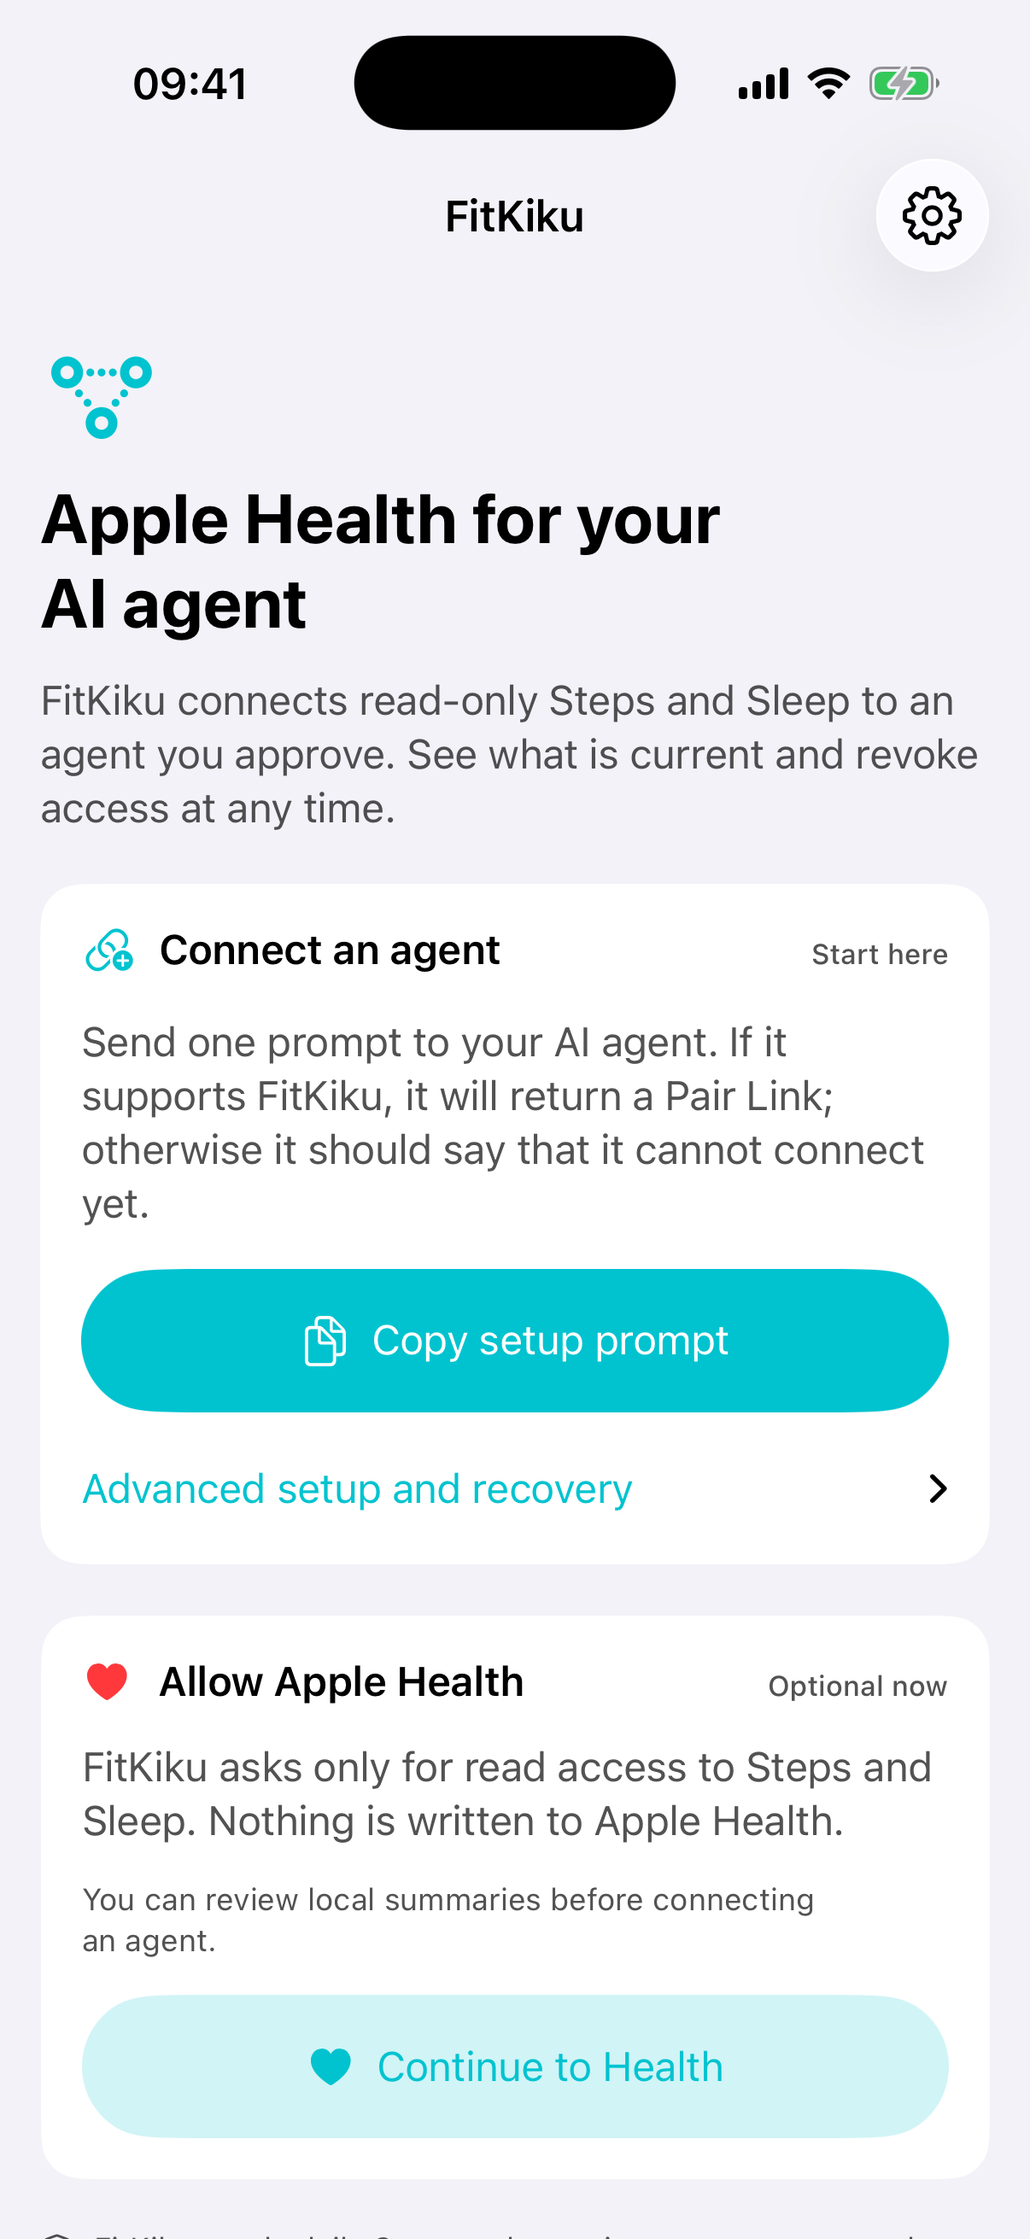
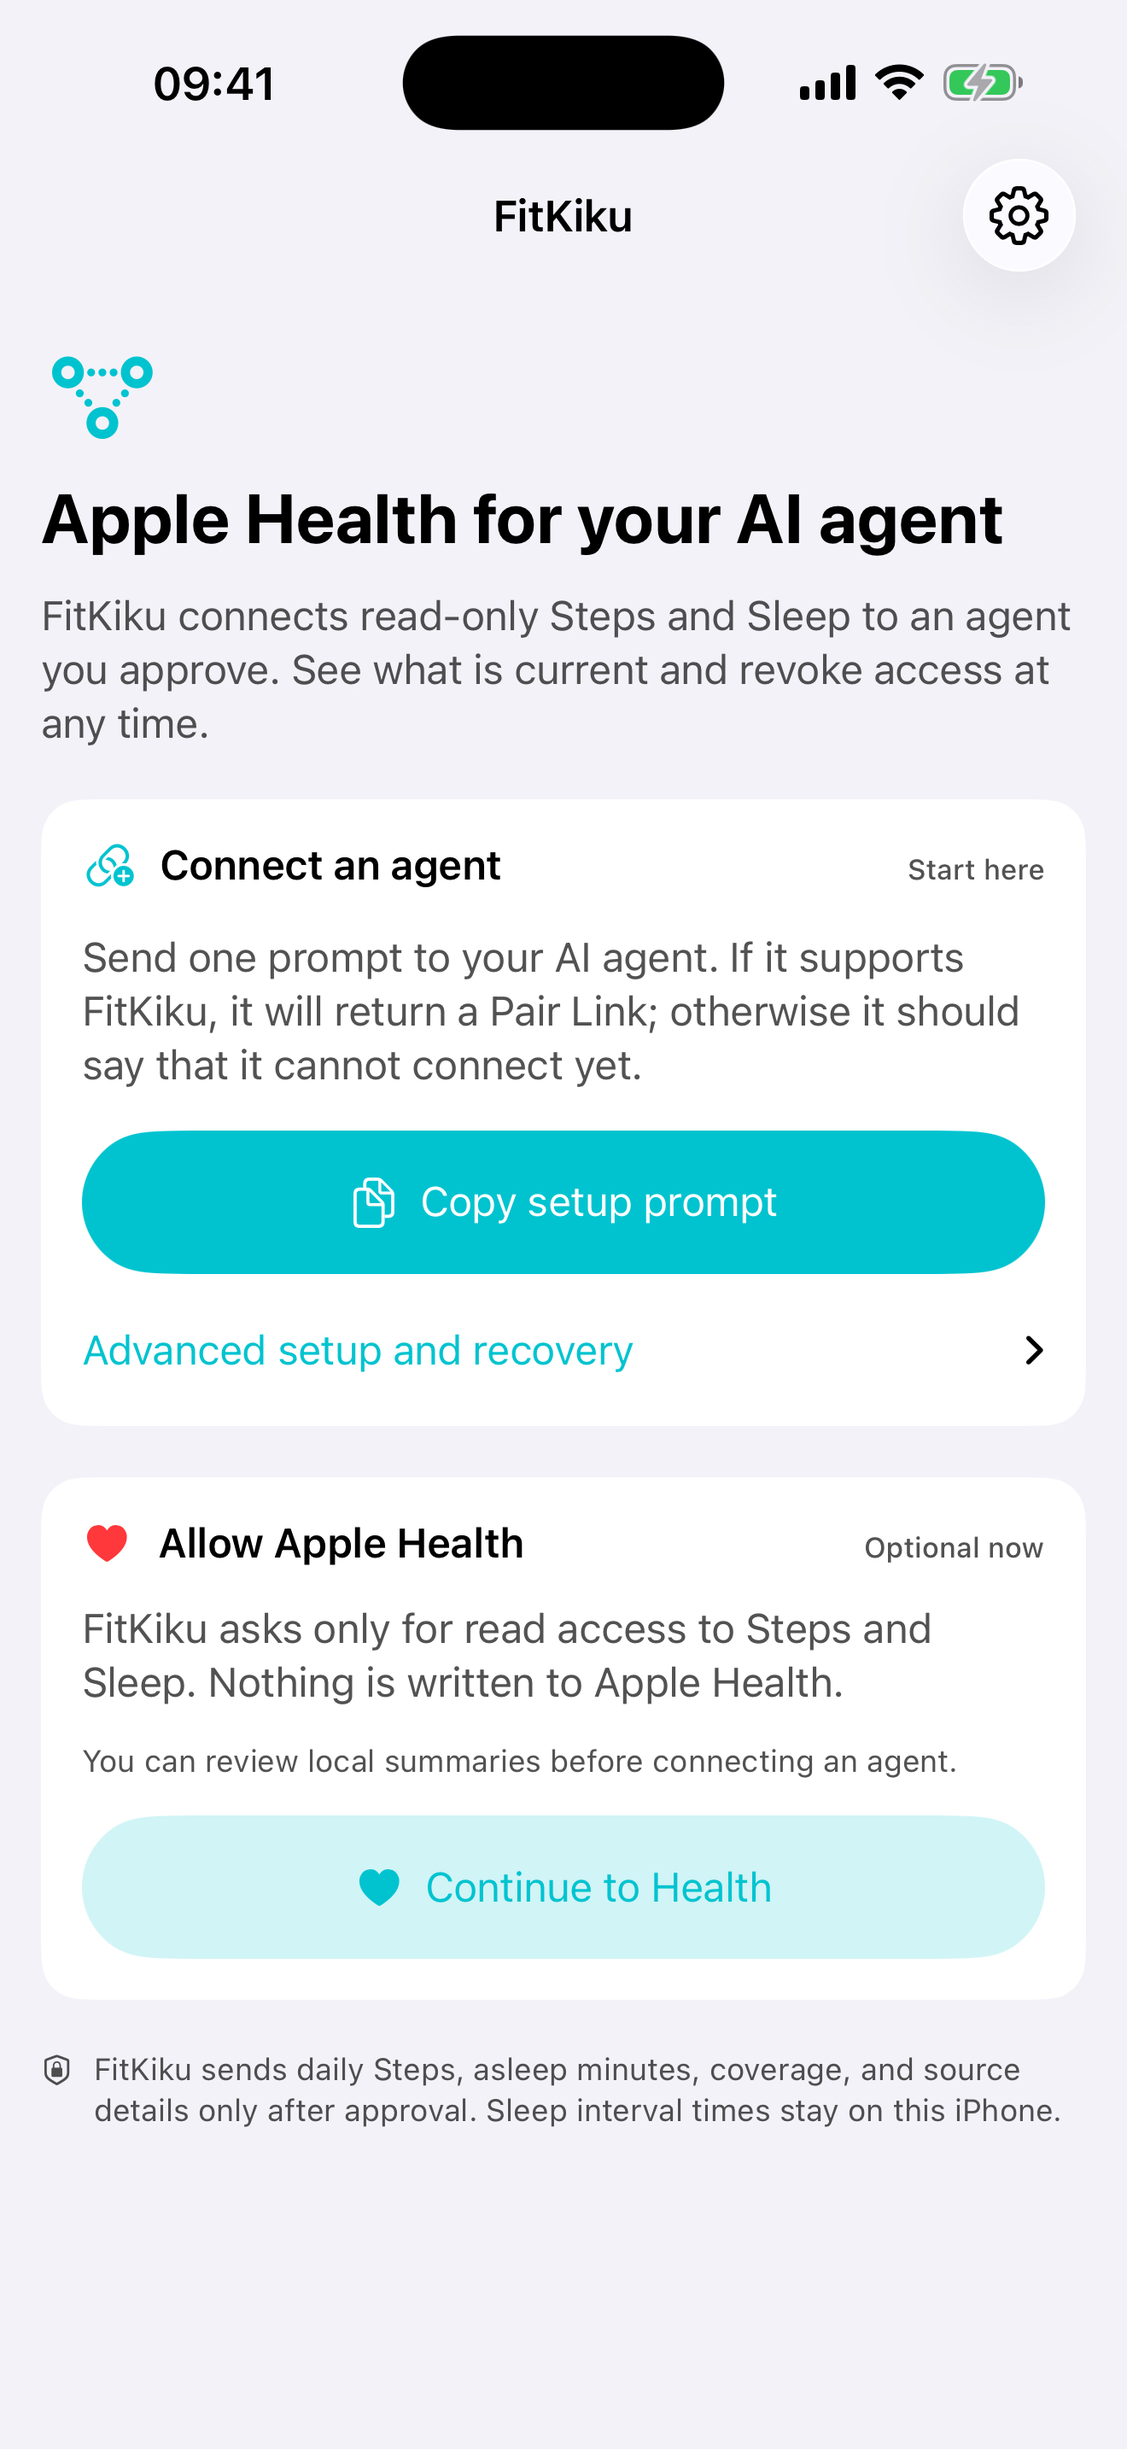
Prepare FitKiku App Store release package (#8)

diff --git a/ios/FitKiku/FitKikuTests/APIClientTests.swift b/ios/FitKiku/FitKikuTests/APIClientTests.swift
@@ -294,6 +294,8 @@ final class APIClientTests: XCTestCase {
         XCTAssertEqual(preview.serverOrigin, "https://fitkiku.example")
         XCTAssertEqual(preview.scopes, [.steps, .sleep])
         XCTAssertEqual(preview.expiresAt, "2099-08-02T12:00:00Z")
+        XCTAssertNotEqual(preview.formattedExpiresAt, preview.expiresAt)
+        XCTAssertFalse(preview.formattedExpiresAt.contains("T12:00:00Z"))
     }
 
     func testAgentPreviewMapsMalformedJSONToInvalidResponse() async throws {
@@ -948,6 +950,12 @@ final class APIClientTests: XCTestCase {
         let firstRun = AppModel.syntheticDemo(.firstRun)
         let consent = AppModel.syntheticDemo(.consent)
         let revoked = AppModel.syntheticDemo(.revoked)
+
+        XCTAssertEqual(
+            consent.pendingAgentConsent?.preview.retentionDisclosure,
+            "Daily summaries are retained until deletion is requested. "
+                + "Revoking stops future access but does not delete stored summaries."
+        )
         let expired = AppModel.syntheticDemo(.expired)
         let healthEmpty = AppModel.syntheticDemo(.healthEmpty)
 

diff --git a/ios/FitKiku/FitKiku/AppModel.swift b/ios/FitKiku/FitKiku/AppModel.swift
@@ -585,8 +585,10 @@ extension AppModel {
                     assertedAgentName: "Kiku Assistant",
                     serverOrigin: "https://health.example",
                     scopes: [.steps, .sleep],
-                    expiresAt: "2099-08-08T21:00:00Z",
-                    retentionDisclosure: "Daily summaries are retained until you revoke access.",
+                    expiresAt: "2026-04-08T18:00:00Z",
+                    retentionDisclosure:
+                        "Daily summaries are retained until deletion is requested. "
+                        + "Revoking stops future access but does not delete stored summaries.",
                     aiProcessingDisclosure: "Your approved agent may send these summaries to its configured AI provider."
                 )
             )

diff --git a/ios/FitKiku/FitKiku/ContentView.swift b/ios/FitKiku/FitKiku/ContentView.swift
@@ -235,7 +235,7 @@ struct ContentView: View {
             Text(NativeHealthDisclosure.outbound)
                 .font(.footnote)
                 .foregroundStyle(Color.fitKikuSecondaryText)
-            detailRow("Request expires", value: consent.preview.expiresAt)
+            detailRow("Request expires", value: consent.preview.formattedExpiresAt)
             disclosure(title: "Retention", body: consent.preview.retentionDisclosure)
             disclosure(title: "AI processing", body: consent.preview.aiProcessingDisclosure)
             Text("Apple Health permission is a separate next step.")

diff --git a/ios/FitKiku/FitKiku/APIClient.swift b/ios/FitKiku/FitKiku/APIClient.swift
@@ -101,6 +101,11 @@ struct AgentGrantPreview: Codable, Equatable, Sendable {
     let expiresAt: String
     let retentionDisclosure: String
     let aiProcessingDisclosure: String
+
+    var formattedExpiresAt: String {
+        guard let date = AppDate.parseTimestamp(expiresAt) else { return expiresAt }
+        return date.formatted(date: .abbreviated, time: .shortened)
+    }
 }
 
 struct AgentPairRequest: Codable, Equatable, Sendable {

diff --git a/docs/APP_STORE_RELEASE_CHECKLIST.md b/docs/APP_STORE_RELEASE_CHECKLIST.md
@@ -10,6 +10,8 @@
 - **Bundle ID:** `com.kikuai.fitkiku.health`
 - **Minimum iOS:** 17.0
 - **Current version/build:** 1.0 (1)
+- **Required upload SDK:** iOS 26 SDK or later from April 28, 2026
+- **Current local toolchain:** Xcode 26.6 / iOS SDK 26.5, verified 2026-08-11
 
 ## Hard release gates
 
@@ -17,14 +19,9 @@
 - [ ] The submission identity is resolved with Apple: FitKiku is a non-medical
       Health & Fitness utility, but Guideline 5.1.1(ix) says apps requiring
       sensitive user information should be submitted by the legal entity
-      providing the service. A close competitor is currently listed under an
-      individual seller, which lowers but does not remove review risk.
+      providing the service. FitKiku currently has no legal-entity submission
+      identity, so review acceptance under an individual seller is unproven.
 - [ ] App Store Connect app record exists and the Bundle ID matches the build.
-- [ ] The paid-program App ID, provisioning profile, and final binary include
-      Associated Domains, and
-      `https://kikuai.dev/.well-known/apple-app-site-association` serves the
-      exact production app identifier over HTTPS without redirects. Personal
-      Team cannot prove this capability.
 - [ ] A production HTTPS backend supports the intended public user boundary.
 - [ ] App Review can exercise the complete flow through an active demo account,
       fully featured demo mode, or reviewer-only sample Pair Link and backend.
@@ -35,9 +32,18 @@
 - [ ] The final archive is uploaded and processed without unresolved warnings.
 - [ ] Owner explicitly approves submission.
 
+Associated Domains and an Apple App Site Association file are not 1.0 release
+gates. The current Pair Link contract intentionally uses the registered
+`fitkiku-health://` custom URL scheme. Universal Links remain a post-1.0
+hardening option after a paid App ID exists; do not advertise them before they
+are implemented and tested in the signed binary.
+
 ## Product-page draft
 
 These are working drafts, not published metadata.
+
+The paste-ready English metadata and review-note template live in
+[`docs/app-store/metadata/en-US.md`](app-store/metadata/en-US.md).
 
 - **Name:** FitKiku
 - **Subtitle:** Apple Health for your AI
@@ -100,8 +106,9 @@ and reshape the business decision before changing the binary.
 
 - [x] Privacy Policy URL — <https://kikuai.dev/fitkiku/privacy/>.
 - [x] Support URL — <https://kikuai.dev/fitkiku/support/>.
-- [ ] Optional privacy choices/deletion URL — decide from the final hosted data
-      control path.
+- [x] Privacy choices/deletion URL — <https://kikuai.dev/fitkiku/support/>;
+      it explains the separate deletion request and opens a pre-addressed
+      support email without collecting health data in a web form.
 - [ ] App Review contact name, phone, and email — owner-provided in App Store
       Connect, never committed here.
 
@@ -109,10 +116,14 @@ Do not publish placeholder or empty pages. Apple requires functional URLs in a
 final submission.
 
 Both required URLs returned public HTTPS `200` responses with their canonical
-content on 2026-08-09. They describe current private testing accurately and do
+content on 2026-08-11. They describe current private testing accurately and do
 not claim App Store availability. The privacy page intentionally keeps public
 enrollment closed until the production backup-retention schedule and
 destination/provider list are finalized.
+
+FitKiku does not create an account in the iOS app. Pairing creates revocable
+device and agent grants. If a future public flow adds account creation, in-app
+account deletion becomes a separate release requirement.
 
 ## App Privacy candidate answers
 
@@ -165,12 +176,11 @@ Apple currently accepts one to ten iPhone screenshots. Capture only synthetic
 or empty demo states with no credentials or personal health data.
 
 - [x] First run: clear Connect Agent and Apple Health steps.
-- [ ] Consent: recapture after the synthetic retention disclosure matches the
-      deployed wording that revocation stops future access but does not delete
-      stored summaries.
+- [x] Consent: the synthetic retention disclosure matches the deployed wording
+      that revocation stops future access but does not delete stored summaries.
 - [x] Delivery: synthetic current and partial/stale states with actionable copy.
-- [x] The English set is 1206x2622, opaque JPEG from an iPhone 17
-      simulator, an accepted 6.3-inch portrait size in Apple's current
+- [x] The English set is 1320x2868, opaque JPEG from an iPhone 17 Pro Max
+      simulator, an accepted 6.9-inch portrait size in Apple's current
       screenshot specification.
 - [x] No screenshot contains Pair Links, tokens, server credentials, real Steps,
       real asleep minutes, source identifiers, or owner-specific timestamps.
@@ -202,17 +212,19 @@ release candidate.
 - [x] A source-language string catalog is present for user-facing SwiftUI copy.
 - [x] The unsigned local Release archive excludes the synthetic demo scenario
       parser, sample agent name, and synthetic token marker.
-- [ ] Final English catalog is reviewed; Russian/Ukrainian are optional later
-      releases and must not be machine-published without review.
+- [x] Final English source copy is reviewed across the synthetic release states;
+      Russian/Ukrainian are optional later releases and must not be machine-
+      published without review.
 - [ ] Marketing version and monotonically increasing build number are set for
       the exact archive.
 - [ ] Encryption/export-compliance answers are completed for TLS and CryptoKit
       HMAC use; do not guess or hide cryptography.
 - [ ] Final archive passes Xcode validation after enrollment and app-record
       creation.
-- [ ] Final paid-program archive contains the `applinks:kikuai.dev`
-      entitlement; the current Personal Team development build intentionally
-      does not.
+- [x] The app registers the `fitkiku-health://` Pair Link scheme used by the
+      current 1.0 connection contract.
+- [ ] If Universal Links are added later, verify the paid-program archive,
+      Associated Domains entitlement, and exact AASA app identifier together.
 
 ## Accessibility and quality preflight
 
@@ -237,16 +249,14 @@ release candidate.
 
 ## Latest local release receipt
 
-- [x] 54/54 iPhone 17 / iOS 26.5 Simulator tests pass on the current release-
-      hardening worktree.
-- [x] The public iOS mirror passes the same 54-test suite after an ordinary
-      shutdown/boot recovered one initial Simulator `Busy` preflight failure.
+- [x] 56/56 iPhone 17 / iOS 26.5 Simulator tests pass on the current release-
+      hardening source.
+- [x] The public iOS mirror passes the same 56-test suite.
 - [x] A fresh unsigned generic-device Release archive succeeds, contains a
       valid privacy manifest and App Icon metadata, carries the HealthKit
       entitlement, and excludes DEBUG synthetic markers.
-- [x] The Personal Team source intentionally contains no Associated Domains
-      entitlement; this is a recorded release blocker, not a passing public-
-      onboarding result.
+- [x] The source intentionally contains no Associated Domains entitlement;
+      the 1.0 Pair Link path uses its registered custom URL scheme instead.
 - [ ] Install this exact release-hardening source on a physical iPhone only
       after the active `b99f0fb` reliability window completes or is explicitly
       abandoned; replacement starts a new evidence window.
@@ -286,6 +296,7 @@ test -f /tmp/FitKiku.xcarchive/Products/Applications/FitKiku.app/PrivacyInfo.xcp
 - [App icons](https://developer.apple.com/design/human-interface-guidelines/app-icons/)
 - [App screenshots](https://developer.apple.com/help/app-store-connect/manage-app-information/upload-app-previews-and-screenshots)
 - [Screenshot specifications](https://developer.apple.com/help/app-store-connect/reference/screenshot-specifications)
+- [Submitting apps](https://developer.apple.com/app-store/submitting/)
 - [Upload builds](https://developer.apple.com/help/app-store-connect/manage-builds/upload-builds/)
 - [Supporting associated domains](https://developer.apple.com/documentation/Xcode/supporting-associated-domains?changes=_2)
 - [Supported capabilities for iOS memberships](https://developer.apple.com/help/account/reference/supported-capabilities-ios)

diff --git a/docs/app-store/metadata/en-US.md b/docs/app-store/metadata/en-US.md
@@ -1,0 +1,156 @@
+# FitKiku App Store Metadata — English (U.S.)
+
+> Document class: release input. This is a paste-ready draft for version 1.0,
+> not proof of an App Store Connect record, uploaded build, or Apple approval.
+> Reconcile every claim against the exact reviewer-accessible backend and final
+> binary before submission. Never commit reviewer credentials or a live Pair
+> Link here.
+
+## App information
+
+- **Name (7/30):** `FitKiku`
+- **Subtitle (24/30):** `Apple Health for your AI`
+- **Primary category:** Health & Fitness
+- **Secondary category:** None for 1.0
+- **Bundle ID:** `com.kikuai.fitkiku.health`
+- **SKU candidate:** `fitkiku-health-ios`
+- **Copyright:** owner-provided year and legal name in App Store Connect
+- **Privacy Policy URL:** `https://kikuai.dev/fitkiku/privacy/`
+- **Privacy Choices URL:** `https://kikuai.dev/fitkiku/support/`
+- **Support URL:** `https://kikuai.dev/fitkiku/support/`
+- **Marketing URL:** `https://kikuai.dev/fitkiku/`
+
+Do not choose a final seller name, copyright owner, territory set, or age
+rating on the owner's behalf. Those fields belong to the enrolled App Store
+Connect account and its current questionnaires.
+
+## Keywords
+
+`apple health,ai agent,steps,sleep,healthkit,privacy,fitness,wellness`
+
+This is below the 100-character limit. Recheck punctuation and duplication in
+App Store Connect; do not repeat `FitKiku` or words already carrying stronger
+weight in the name and subtitle unless search evidence justifies it.
+
+## Description
+
+FitKiku connects recent Apple Health context to a personal AI agent you
+approve.
+
+Review Steps and Sleep summaries on your iPhone before connecting anything.
+When you connect a compatible agent, FitKiku shows the exact destination,
+read-only categories, retention statement, and AI-processing disclosure before
+you approve the connection.
+
+FitKiku helps you:
+
+- review daily Steps and Sleep from Apple Health;
+- keep missing or partial coverage visible instead of treating it as zero;
+- see freshness and recent delivery status;
+- revoke future device delivery and agent access;
+- use Apple Watch data after it reaches Apple Health on the paired iPhone.
+
+FitKiku never writes to Apple Health. It contains no advertising or tracking
+SDK. Health summaries are sent only after you approve a compatible FitKiku
+destination and grant Apple Health read access.
+
+Background delivery is best effort. Opening the app can perform a bounded
+foreground catch-up when recent delivery needs attention.
+
+FitKiku is a fitness-data connection and accountability tool. It is not
+medical diagnosis, treatment, clearance, or emergency care.
+
+## Promotional text
+
+Leave empty for 1.0. Do not advertise a hosted plan, broad agent compatibility,
+or App Store availability before each claim is true.
+
+## Version 1.0 release notes
+
+Initial release of FitKiku, a read-only Apple Health connector for compatible
+personal AI agents.
+
+- Review daily Steps and Sleep on iPhone.
+- Approve the destination and data categories before sharing.
+- See freshness, missing-data, and delivery status.
+- Disconnect and revoke future access at any time.
+
+## App Privacy candidate
+
+These answers are deliberately conservative and must be reconciled against the
+deployed backend and every SDK immediately before submission.
+
+| Data type | Linked to user | Tracking | Purpose |
+|---|---:|---:|---|
+| Health | Yes | No | App Functionality |
+| Device ID | Yes | No | App Functionality |
+
+The privacy policy describes the exact Steps, Sleep, coverage, source-detail,
+installation-identifier, AI-provider, retention, revocation, and deletion
+boundaries. No data is used for advertising or tracking.
+
+The iOS app does not create an account. Its connection grants are revocable,
+and the Support URL provides the separate stored-data deletion request.
+
+## App Review notes template
+
+FitKiku is an iPhone-only Health & Fitness utility. It requests read access to
+Steps and Sleep Analysis and never requests HealthKit write access.
+
+The main connection path begins when a compatible agent creates a single-use
+Pair Link. Opening the link shows a metadata-only preview. No health summary is
+sent until the reviewer approves the named HTTPS destination and separately
+grants Apple Health read access.
+
+For review, use the active sample path supplied in App Store Connect. The
+sample must exercise the real Release flow and an active reviewer-accessible
+backend; the repository's synthetic Debug screenshot mode is not a reviewer
+demo.
+
+After connection:
+
+1. Use **Check and sync now** to perform a bounded foreground catch-up.
+2. Open delivery details to review freshness and missing-data status.
+3. Open Settings and choose **Disconnect and revoke server access** to revoke
+   future device delivery and agent reads.
+
+Background delivery is best effort. Apple Watch data appears only after it
+reaches Apple Health on the paired iPhone. Empty or unavailable Health data is
+shown as Unknown rather than as zero.
+
+The app is free and contains no purchase, subscription, advertising, or
+tracking flow. Do not mention the planned hosted-gateway price unless that
+service and its review position are finalized.
+
+### Required private App Store Connect inputs
+
+- Reviewer first and last name, phone number, and email
+- Exact numbered review steps matching the uploaded build
+- Active reviewer sample Pair Link or fully featured Release demo path
+- Any required demo credentials entered only in App Store Connect
+- Backend availability window and support contact during review
+
+## Export compliance worksheet
+
+The app uses HTTPS/TLS and CryptoKit HMAC. Complete Apple's current export
+compliance questionnaire from the exact archive. Do not set
+`ITSAppUsesNonExemptEncryption` or claim an exemption until the owner has
+confirmed the answers App Store Connect requests.
+
+## Submission blockers that metadata cannot close
+
+- Paid Apple Developer Program enrollment and an App Store Connect app record
+- Submission-identity decision for Apple's sensitive-data legal-entity guidance
+- Reviewer-accessible production boundary or a real fully featured Release demo
+- Final retention/provider disclosure and deletion handling
+- Frozen physical-iPhone reliability and accessibility evidence
+- Signed distribution archive, upload, processing, privacy report, and validation
+- Owner approval to submit
+
+## Apple primary sources
+
+- [App information](https://developer.apple.com/help/app-store-connect/reference/app-information/app-information)
+- [App privacy](https://developer.apple.com/help/app-store-connect/reference/app-information/app-privacy/)
+- [App Review Guidelines](https://developer.apple.com/app-store/review/guidelines/)
+- [Screenshot specifications](https://developer.apple.com/help/app-store-connect/reference/app-information/screenshot-specifications/)
+- [Export compliance overview](https://developer.apple.com/help/app-store-connect/manage-app-information/overview-of-export-compliance/)
